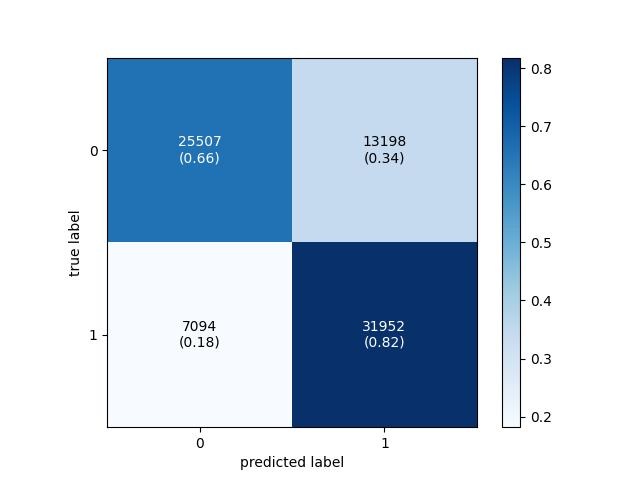
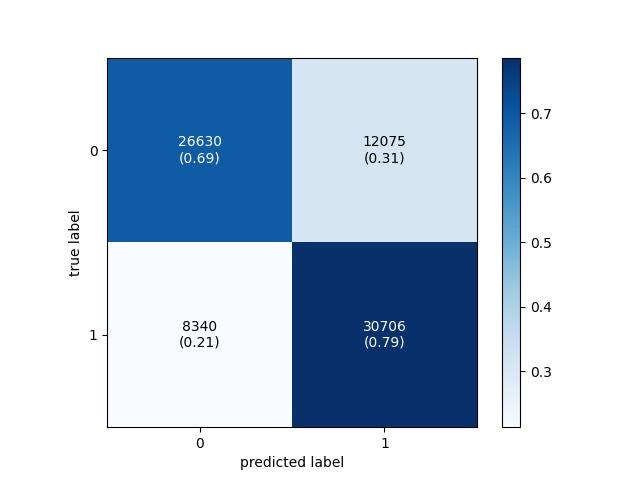
fix: remove keras hard coded in tensorfloow

diff --git a/main.py b/main.py
@@ -6,6 +6,7 @@ from flask_cors import CORS, cross_origin
 
 from classification.ann_model import ANN_Model
 from classification.dcnn_model import DCNN_Model
+# from classification.dcnn_model import DCNN_Model
 from classification.diabetes import DiabetesModel
 from classification.model import CategoricalMapping, Model
 from classification.stroke import StrokeModel
@@ -31,17 +32,34 @@ coronary_model = ANN_Model(coronary_name, "chd", coronary_map, [])
 diabetes_name = 'diabetes'
 diabetes_model = ANN_Model(diabetes_name, 'Diabetes_binary', [], [])
 diabetes_features = [
-        'high_bp', 'high_chol', 'chol_check', 'bmi', 'smoker', 'stroke',
-        'heart_disease', 'phys_activity', 'fruits', 'veggies', 'heavy_alc',
-        'health_insurance', 'no_doc_bc_cost', 'gen_health', 'mental_health',
-        'phys_health', 'diff_walk', 'sex', 'age_category'
-    ]
+        'HighBP',
+        'HighChol',
+        'CholCheck',
+        'BMI',
+        'Smoker',
+        'Stroke',
+        'HeartDiseaseorAttack',
+        'PhysActivity',
+        'Fruits',
+        'Veggies',
+        'HvyAlcoholConsump',
+        'AnyHealthcare',
+        'NoDocbcCost',
+        'GenHlth',
+        'MentHlth',
+        'PhysHlth',
+        'DiffWalk',
+        'Sex',
+        'Age',
+        'Education',
+        'Income',
+]
 
 # Create a DCNN Model
 dcnn_model = DCNN_Model()
 # dcnn_model.predict('./test/melanocytic.jpg')
 # dcnn_model.predict('./test/actinic-keratosis.jpg')
-dcnn_model.predict('./test/dermatofibroma.jpg')
+# dcnn_model.predict('./test/dermatofibroma.jpg')
 
 
 # Method to make a prediction route
@@ -65,9 +83,9 @@ def make_route(name, features, model):
     predict.__name__ = name
     
 # Routes List
+
 make_route(f'{coronary_name}', ['sbp','tobacco','ldl','adiposity','famhist','typea','obesity','alcohol','age'], coronary_model)
 make_route(f'{diabetes_name}', diabetes_features, diabetes_model)
-
 # @app.route('/diabetes', methods=['POST'])
 # @cross_origin()
 # def predict_diabetes():

diff --git a/classification/ann_model.py b/classification/ann_model.py
@@ -5,10 +5,12 @@ from datetime import datetime
 from typing import List
 
 import joblib
+import keras
 import matplotlib.pyplot as plt
 import numpy as np
 import pandas as pd
-import tensorflow as tf
+from keras.layers import Dense
+from keras.models import Sequential, load_model
 from mlxtend.plotting import plot_confusion_matrix
 from sklearn.ensemble import RandomForestClassifier
 from sklearn.metrics import (accuracy_score, classification_report,
@@ -16,8 +18,6 @@ from sklearn.metrics import (accuracy_score, classification_report,
 from sklearn.model_selection import train_test_split
 from sklearn.preprocessing import LabelEncoder, StandardScaler
 from sklearn.utils import resample
-from tensorflow.python.keras.layers import Dense
-from tensorflow.python.keras.models import Sequential, load_model
 
 
 class CategoricalMapping:
@@ -140,7 +140,7 @@ class ANN_Model:
         self.model.compile(optimizer ='adam', loss='binary_crossentropy', metrics = ['accuracy']) 
 
         # Training Dataset
-        self.model.fit(X_train, y_train, batch_size = 32, epochs = 100)
+        self.model.fit(X_train, y_train, batch_size = 32, epochs = 10)
 
         # Predicft
         predictions = self.model.predict(X_test)
